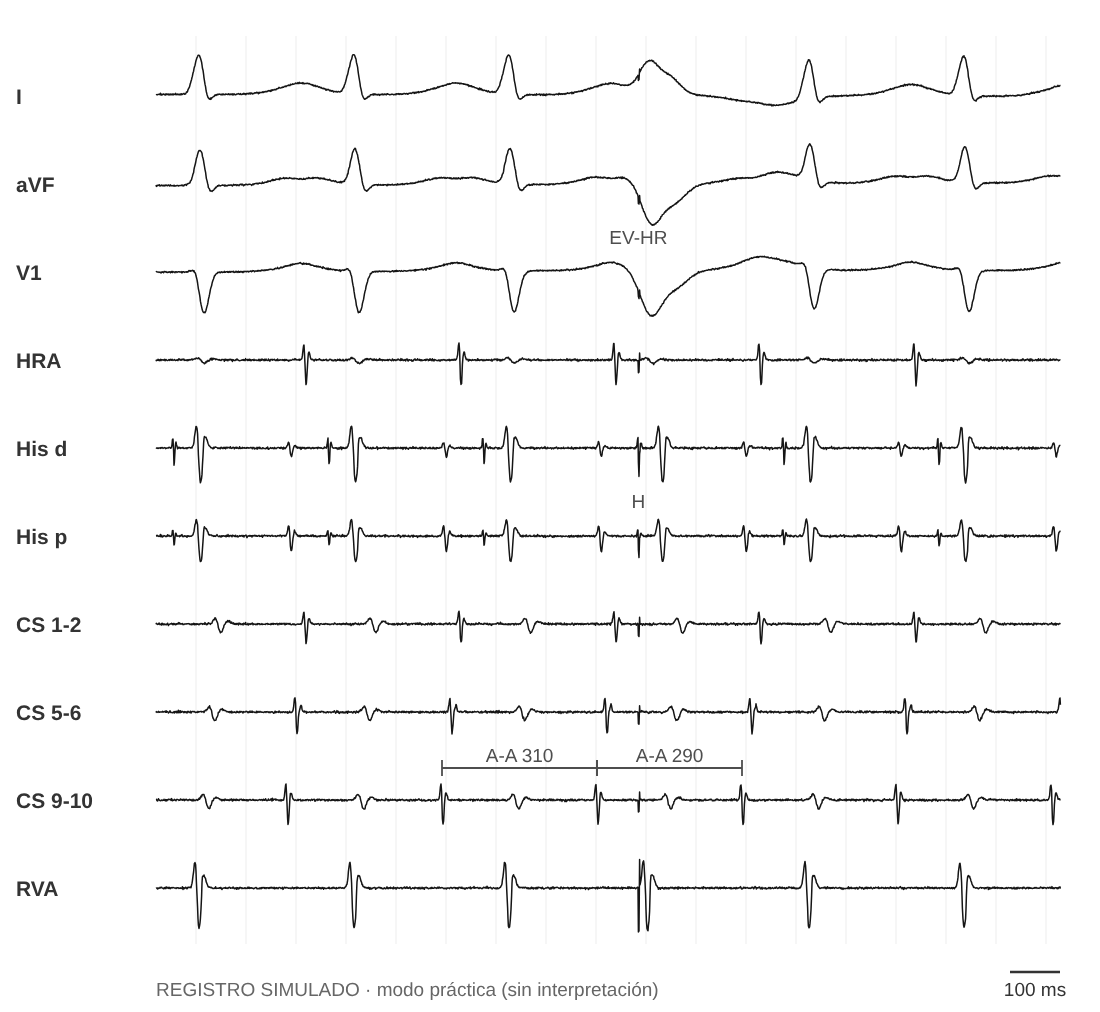
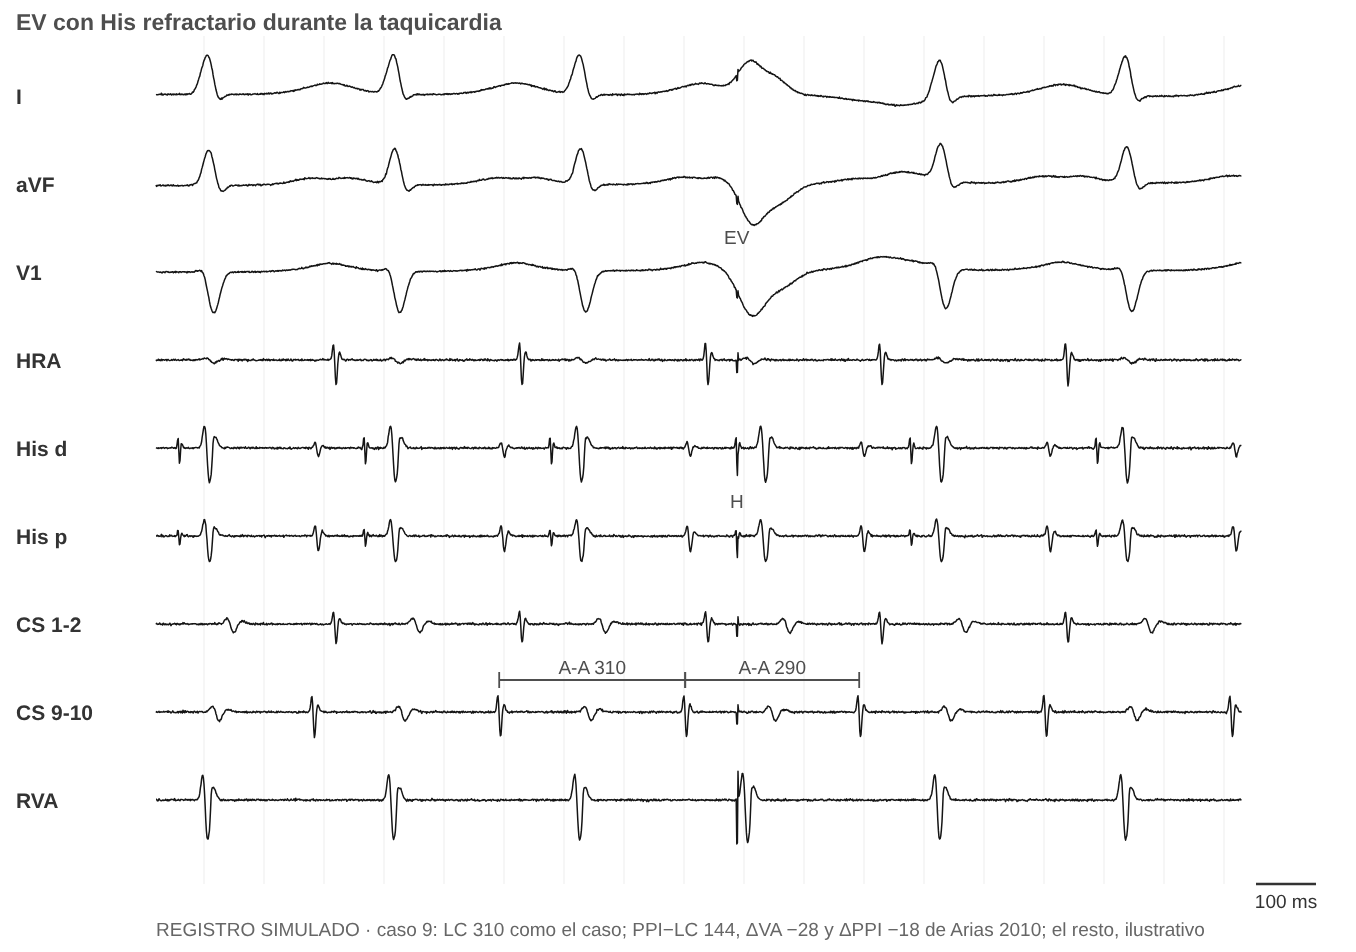
Caso 9 en el formato nuevo: todas las maniobras simuladas, valores durante el análisis y devolución paso a paso
Claude-Session: https://claude.ai/code/session_01Pw5rjt62KK5LeJZoEyFiaM

diff --git a/index.html b/index.html
@@ -313,7 +313,7 @@ dialog::backdrop{background:rgba(0,0,0,.45)}
 
 <div id="visor" hidden role="dialog" aria-label="Imagen ampliada"><div class="vbar"><button type="button" class="vm" aria-label="Achicar">−</button><button type="button" class="vp" aria-label="Agrandar">+</button><button type="button" class="vf">Ajustar</button><button type="button" class="vx">✕ Cerrar</button></div><div class="vbox"><img alt=""></div></div>
 <script>
-const APPV = 160;   // igual al número de CACHE_VERSION de sw.js
+const APPV = 161;   // igual al número de CACHE_VERSION de sw.js
 // ===============================================================================================================
 // Referencias. "propia" = artículo del material base; las demás se citan a través de esas revisiones.
 // ===============================================================================================================
@@ -1388,16 +1388,19 @@ const PCASOS = [
       pre: { v: 'Estimulación ventricular en sinusal a 500 y 400 ms.', r: 'SA 140 → 190 (decremental), concéntrica: conducción VA por el nodo, sin vía accesoria.', u: 'util', img: 'figs/sim/prac/p8_pre.png' } },
     dx: ['tvf'], ex: 'Taquicardia de QRS ancho con BRD y eje superior en un corazón sano. La disociación AV y el His después del inicio del QRS indican un origen ventricular, y los QRS angostos al estimular la aurícula excluyen la aberrancia. Es inducible y encarrilable (reentrada); el mapeo muestra P1 y P2 en el septum medio-inferior del VI y el verapamilo alarga la LC y el P1-P2 hasta cortar la taquicardia con un bloqueo entre P1 y P2: TV fascicular posterior.', refs: ['nogami10', 'liuq23', 'liu15'] },
   { id: 'c9', t: 'TRAV septal que imita una TRNAV atípica', p: 'Varón de 13 años con TSV de RP largo.',
-    ecg: 'figs/sim/casos/c9_ecg.jpg', ecgReal: true, basal: 'figs/sim/casos/c9_basal.png', ind: 'figs/sim/casos/c9_ind.png',
-    h: ['TSV de QRS angosto, LC 310 ms, relación 1:1', 'VA 180 ms, HA 222 ms', 'A más precoz en el SC proximal'],
-    m: { vop: { r: 'Respuesta A-V: TRNAV o TRAV (excluye la TA).', u: 'util', img: 'figs/sim/prac/p9_vop.png' },
-      medidas: { r: 'PPI−LC 144 ms; cPPI−LC 144; SA−VA (ΔVA) 100; ΔHA 40: los cuatro en rango de TRNAV. Ojo: una vía lenta y decremental se enlentece al estimular y alarga estos intervalos.', u: 'trampa', img: 'figs/sim/prac/p9_vop.png' },
-      ehr: { r: 'Una EV con His refractario adelanta la A siguiente: hay una vía accesoria.', u: 'clave', img: 'figs/sim/prac/p9_ehr.png' },
-      diff: { r: 'Base − ápex: ΔcPPI−LC −18 ms y ΔVA −28 ms. Desde la base el VA se acorta (en la TRNAV se alarga > 20 ms): la base está más cerca de la vía.', u: 'clave', img: 'figs/sim/prac/p9_diff.png' },
-      aop: { r: 'ΔAH 12 ms.', u: 'util' },
-      pre: { r: 'Sin doble vía. Conducción VA decremental, más precoz en el SC proximal.', u: 'util' },
-      parahis: { r: 'Respuesta nodal: la vía lenta conduce más despacio que el nodo y no se ve.', u: 'trampa' } },
-    dx: ['pjrt', 'trav_s'], ex: 'La respuesta A-V descarta la TA. Los cortes de PPI−LC, SA−VA y ΔHA se validaron sobre todo con vías rápidas: una vía septal lenta y decremental se enlentece al estimular, alarga esos intervalos y hace que la TRAV parezca una TRNAV atípica. Las maniobras que no dependen del decremento desempatan: la EV con His refractario que adelanta la A demuestra la vía, y el encarrilamiento diferencial (ΔVA y ΔcPPI−LC negativos) la ubica en el circuito. Es una TRAV por vía septal lenta y decremental (tipo PJRT); la ablación de la vía la eliminó. Mensaje: en una TSV de RP largo, antes de ablacionar una "TRNAV atípica", confirmar que una EV con His refractario no modifique la A.', refs: ['arias10', 'bennett11', 'segal09'] },
+    ecg: 'figs/sim/casos/c9_ecg.jpg', ecgReal: true, basal: 'figs/sim/casos/c9_basal.png', ind: 'figs/sim/casos/c9_ind.png', indt: 'Extraestímulo auricular S1-S2 600-300',
+    h: ['TSV de QRS angosto, LC 310 ms, relación AV 1:1', 'Protocolo: extraestímulo auricular desde la AD alta, S1-S2 600-300'],
+    hk: ['RP largo: VA 180 ms (HA 222) con la A más precoz en el SC proximal. El diferencial es TRNAV atípica, TRAV por una vía septal lenta (PJRT) y TA septal baja.', 'Inducción con extraestímulo auricular sin salto del AH (AH 140 con S2 300): no hay doble fisiología nodal evidente.'],
+    m: { ehr: { v: 'EV desde el ápex con el His refractario: la A siguiente se adelanta 20 ms (A-A 290) con la misma secuencia y la taquicardia sigue.', r: 'Con el His refractario la EV solo pudo llegar a la A por una vía, y la taquicardia sigue reseteada: hay una vía accesoria que participa en el circuito. Esta maniobra no depende del decremento.', u: 'clave', img: 'figs/sim/prac/p9_ehr.png' },
+      diff: { v: 'Encarrilando a 295 ms: desde el ápex SA 280 y PPI 454; desde la base del VD SA 252 y PPI 436 (VA 180). ΔVA (base − ápex) −28 ms; ΔPPI (base − ápex) −18 ms.', r: 'Desde la base el VA y el PPI se acortan (en la TRNAV se alargan más de 20 ms): la base está más cerca de la vía septal. Al comparar dos sitios, el decremento de la vía se cancela.', u: 'clave', img: 'figs/sim/prac/p9_diff.png' },
+      aop: { v: 'Estimulando la AD alta a 290 ms los V se aceleran a 290 (V-V 290; en la TSV, 310) con AH 100 (en la TSV, 88). Al cortar, el VA del primer latido es 180 ms, igual al de la TSV.', r: 'VA linking: excluye la TA. ΔAH (estimulando − TSV) 12 ms < 20: la aurícula forma parte del circuito; en contra de la TRNAV atípica.', u: 'clave', img: 'figs/sim/prac/p9_aop.png' },
+      vop: { v: 'Estimulando el ápex del VD a 295 ms las A se aceleran a 295 con la misma secuencia. Al cortar, el primer electrograma que sigue a la última A es un V (secuencia A-V).', r: 'Respuesta A-V: excluye la TA.', u: 'clave', img: 'figs/sim/prac/p9_vop.png' },
+      medidas: { v: 'PPI 454 ms con LC 310 (PPI−LC 144). SA 280 ms con VA 180 (SA−VA 100). HA 222 en la TSV y 262 estimulando (ΔHA +40).', r: 'Engañosa: los tres valores caen en rango de TRNAV. La vía septal es lenta y decremental: al estimular más rápido conduce más despacio y alarga el SA, el PPI y el HA. Los cortes se validaron sobre todo con vías rápidas.', u: 'trampa', img: 'figs/sim/prac/p9_medidas.png' },
+      parahis: { v: 'En sinusal, con captura del His: SA 120 y QRS 95. Solo V: SA 170 y QRS 150. Misma secuencia auricular.', r: 'Engañosa: respuesta nodal porque la vía decremental conduce más lento que el nodo y no se ve.', u: 'trampa', img: 'figs/sim/prac/p9_parahis.png' },
+      ado: { v: 'La taquicardia termina: el último latido es un V que no conduce a la A.', r: 'Engañosa: la terminación con un V sugiere bloqueo en la vía lenta retrógrada (TRNAV atípica), pero las vías decrementales también son sensibles a la adenosina.', u: 'trampa', img: 'figs/sim/prac/p9_ado.png' },
+      pre: { v: 'Estimulación ventricular en sinusal a 500 y 400 ms.', r: 'SA 150 a 500 y 190 a 400 (decremental), con la A más precoz en el SC proximal: compatible con el nodo o con una vía decremental.', u: 'util', img: 'figs/sim/prac/p9_pre.png' },
+      eha: { v: 'EA desde el ostium del SC con el His refractario: el His siguiente sale a su tiempo (H-H 310).', r: 'No modifica el His: esperable en la TRAV (el EA no puede bajar por el nodo refractario).', u: 'util', img: 'figs/sim/prac/p9_eha.png' } },
+    dx: ['pjrt', 'trav_s'], ex: 'La respuesta A-V y el VA linking descartan la TA, y el ΔAH de 12 ms ubica la aurícula en el circuito. Los cortes de PPI−LC, SA−VA y ΔHA se validaron sobre todo con vías rápidas: una vía septal lenta y decremental se enlentece al estimular, alarga esos intervalos y hace que la TRAV parezca una TRNAV atípica. Las maniobras que no dependen del decremento desempatan: la EV con His refractario que adelanta la A demuestra la vía, y el encarrilamiento diferencial (ΔVA −28, ΔPPI −18) la ubica en el circuito. Es una TRAV por vía septal lenta y decremental (tipo PJRT). Mensaje: en una TSV de RP largo, antes de ablacionar una "TRNAV atípica", confirmar que una EV con His refractario no modifique la A.', refs: ['arias10', 'bennett11', 'segal09'] },
   { id: 'c10', t: 'TSV con bloqueo VA tipo Wenckebach', p: 'Varón de 40 años con TSV. Se induce una sola taquicardia.',
     ecg: 'figs/sim/casos/c10_ecg.png', basal: 'figs/sim/casos/c10_basal.png', ind: 'figs/sim/casos/c10_ind.png',
     h: ['TSV de QRS angosto, LC 390 ms', 'Bloqueo VA tipo Wenckebach con taquicardia que sigue (más V que A)', 'El HH se mantiene estable a pesar del bloqueo VA'],

diff --git a/sw.js b/sw.js
@@ -1,6 +1,6 @@
 // Permite instalar la app y abrirla sin conexión. Primero la red (siempre lo último publicado); si no hay, la copia.
 // Si cambiás un archivo, subí CACHE_VERSION.
-const CACHE_VERSION = 'mef-v160';
+const CACHE_VERSION = 'mef-v161';
 const ARCHIVOS = ['./', './index.html', './manifest.json', './iconos/icon-192.png', './iconos/icon-512.png'];
 self.addEventListener('install', e => e.waitUntil(caches.open(CACHE_VERSION).then(c => c.addAll(ARCHIVOS)).then(() => self.skipWaiting())));
 self.addEventListener('activate', e => e.waitUntil(caches.keys().then(ks => Promise.all(ks.filter(k => k !== CACHE_VERSION).map(k => caches.delete(k)))).then(() => self.clients.claim())));

diff --git a/herramientas/simulador/cases6.py b/herramientas/simulador/cases6.py
@@ -946,6 +946,117 @@ def verap8(title, lcs, p1p2s, end):
 S['p8_verapamilo_a'] = verap8('A. Antes del verapamilo', [0, 420, 420, 420, 420, 420], [110] * 6, False)
 S['p8_verapamilo_b'] = verap8('B. Verapamilo IV', [0, 440, 460, 480, 500], [120, 130, 145, 160, 175], True)
 
+# =====================================================================================================
+# Caso 9 (TRAV por vía septal lenta y decremental que imita una TRNAV atípica; LC 310 como el ECG real, VA 180, HV 42, AH 88).
+# Arias 2010: desde el ápex PPI−LC 144; base − ápex: ΔVA −28 y ΔcPPI−LC −18. SA−VA 100 y ΔHA +40, ilustrativos.
+SRC9 = 'caso 9: LC 310 como el caso; PPI−LC 144, ΔVA −28 y ΔPPI −18 de Arias 2010; el resto, ilustrativo'
+LC9, VA9, HV9, AH9, SC9, SA9, PPI9, HAp9 = 310, 180, 42, 88, 295, 280, 454, 262
+
+
+def vop9(title, med):
+    svt = [i * LC9 for i in range(3)]
+    sp = [svt[-1] + 230 + SC9 * k for k in range(6)]
+    A = [v + VA9 for v in svt] + [s + SA9 for s in sp]
+    ret = sp[-1] + PPI9
+    after = [ret, ret + LC9]
+    cal = [(svt[0], svt[1], 'RVA', f'LC {LC9}'), (svt[1], svt[1] + VA9 + 2, 'CS 9-10', f'VA {VA9}'), (sp[-2], sp[-1], 'RVA', f'S-S {SC9}'),
+           (A[-3] + 2, A[-2] + 2, 'HRA', f'A-A {SC9}'), (sp[-1], A[-1] + 2, 'CS 9-10', f'SA {SA9}'), (sp[-1], ret + 2, 'RVA', f'PPI {PPI9}')]
+    marks = []
+    if med:
+        cal = [c for c in cal if not c[3].startswith(('S-S', 'A-A'))]
+        cal += [(svt[1] - HV9, svt[1] + VA9, 'His p', f'HA {HV9 + VA9}'), (A[-1] - HAp9, A[-1], 'His p', f'HA {HAp9}')]
+        marks = [(sp[-1] + 160, 'I', f'SA − VA = {SA9} − {VA9} = {SA9 - VA9} ms'), (sp[-1] + 160, 'aVF', f'PPI − LC = {PPI9} − {LC9} = {PPI9 - LC9} ms'),
+                 (sp[-1] + 160, 'V1', f'ΔHA = {HAp9} − {HV9 + VA9} = +{HAp9 - HV9 - VA9} ms')]
+    return dict(win=(-80, after[-1] + 220), pxms=0.24, title=title, channels=CH6, src=SRC9,
+        beats=[(v, 'n') for v in svt + after] + [(s, 'pa') for s in sp], spikes=sp,
+        atr=[(a, 'conc_cs', -1) for a in A + [v + VA9 for v in after]],
+        h_ante=[v - HV9 for v in svt + after], h_retro=[s + SA9 - HAp9 for s in sp], cal=cal, marks=marks)
+
+
+S['p9_vop'] = vop9('Sobreestimulación ventricular desde el ápex del VD a 295 ms', False)
+S['p9_medidas'] = vop9('Medidas sobre la sobreestimulación ventricular (ápex del VD a 295 ms): PPI, SA y HA', True)
+
+
+def diff9(sa, ppi, typ, title):
+    svt = [0, LC9]
+    sp = [560 + SC9 * k for k in range(6)]
+    A = [v + VA9 for v in svt] + [s + sa for s in sp]
+    ret = sp[-1] + ppi
+    return dict(win=(-80, ret + LC9 + 220), pxms=0.24, channels=CH6, title=title, spikes=sp, pace_ch='RVA', src=SRC9,
+        beats=[(v, 'n') for v in svt] + [(s, typ) for s in sp] + [(ret, 'n'), (ret + LC9, 'n')],
+        atr=[(a, 'conc_cs', -1) for a in A] + [(ret + VA9, 'conc_cs', -1), (ret + LC9 + VA9, 'conc_cs', -1)],
+        h_ante=[v - HV9 for v in svt] + [ret - HV9, ret + LC9 - HV9], h_retro=[s + sa - HAp9 for s in sp],
+        cal=[(svt[1], svt[1] + VA9 + 2, 'CS 9-10', f'VA {VA9}'), (sp[-1], A[-1] + 2, 'CS 9-10', f'SA {sa}'), (svt[0], svt[1], 'RVA', f'LC {LC9}'),
+             (sp[-1], ret + 2, 'RVA', f'PPI {ppi}')])
+
+
+S['p9_diff_a'] = diff9(280, 454, 'pa', 'A. Encarrilamiento desde el ápex del VD (295 ms)')
+S['p9_diff_b'] = diff9(252, 436, 'pb', 'B. Encarrilamiento desde la base del VD (295 ms)')
+
+# EV con His refractario: adelanta la A siguiente 20 ms, misma secuencia, la taquicardia sigue.
+k = 3
+vs = [i * LC9 for i in range(k)]
+h_exp = k * LC9 - HV9
+A = [v + VA9 for v in vs] + [k * LC9 + VA9 - 20]
+nxt = A[-1] + (LC9 - VA9)
+after = [nxt, nxt + LC9]
+A += [v + VA9 for v in after]
+S['p9_ehr'] = dict(win=(-80, after[-1] + 200), pxms=0.30, title='EV con His refractario durante la taquicardia', channels=CH6, src=SRC9,
+    spikes=[h_exp], pace_ch='RVA', beats=[(v, 'n') for v in vs] + [(h_exp, 'pa')] + [(v, 'n') for v in after],
+    atr=[(a, 'conc_cs', -1) for a in A], h_ante=[v - HV9 for v in vs] + [h_exp] + [v - HV9 for v in after],
+    cal=[(A[k - 2] + 2, A[k - 1] + 2, 'CS 9-10', f'A-A {LC9}'), (A[k - 1] + 2, A[k] + 2, 'CS 9-10', f'A-A {LC9 - 20}')],
+    marks=[(h_exp, 'V1', 'EV'), (h_exp, 'His p', 'H')])
+
+# Estudio basal: estimulación del VD a 500 y 400: SA 150 y 190 (decremental), A más precoz en el SC proximal.
+sp = [0, 500, 1000, 1400, 1800]
+sas = [150, 150, 150, 190, 190]
+S['p9_pre'] = dict(win=(-80, 2150), pxms=0.30, title='Estimulación ventricular en ritmo sinusal: 500 y 400 ms', channels=CH6, src=SRC9,
+    spikes=sp, beats=[(s, 'pa') for s in sp], atr=[(s + a, 'conc_cs', -1) for s, a in zip(sp, sas)],
+    cal=[(sp[0], sp[1], 'RVA', 'S-S 500'), (sp[1], sp[1] + 152, 'CS 9-10', 'SA 150'), (sp[2], sp[3], 'RVA', 'S-S 400'), (sp[3], sp[3] + 192, 'CS 9-10', 'SA 190')])
+
+# Para-Hisiana en sinusal: SA 120 → 170, misma secuencia.
+sp = [0, 650, 1300, 1950]
+cap = [True, False, True, False]
+S['p9_parahis'] = dict(win=(-80, 2300), pxms=0.32, title='Estimulación para-Hisiana en ritmo sinusal', channels=CH6, src=SRC9,
+    spikes=sp, pace_ch='His p', beats=[(s + HV9 if c else s, 'n' if c else 'pa') for s, c in zip(sp, cap)],
+    atr=[(s + (120 if c else 170), 'conc_cs', -1) for s, c in zip(sp, cap)],
+    cal=[(sp[0], sp[0] + 122, 'CS 9-10', 'SA 120'), (sp[1], sp[1] + 172, 'CS 9-10', 'SA 170'), (sp[2] + HV9, sp[2] + HV9 + 95, 'RVA', 'QRS 95'), (sp[3], sp[3] + 150, 'RVA', 'QRS 150')],
+    marks=[(sp[0] + 30, 'V1', 'His + V'), (sp[1] + 40, 'V1', 'solo V')])
+
+# Sobreestimulación auricular desde la AD alta a 290: AH 100 (TSV 88, ΔAH 12); al cortar, VA 180 como en la TSV.
+AHs9 = AH9 + 12
+vs = [0, LC9, 2 * LC9]
+A = [v + VA9 for v in vs]
+sp = [A[-1] + 200 + 290 * k for k in range(6)]
+pv = [s + 28 + AHs9 + HV9 for s in sp]
+vs2 = [pv[-1] + LC9, pv[-1] + 2 * LC9]
+S['p9_aop'] = dict(win=(-80, vs2[-1] + 220), pxms=0.24, title='Sobreestimulación auricular desde la AD alta a 290 ms', channels=CH6, src=SRC9,
+    beats=[(v, 'n') for v in vs + pv + vs2], aspikes=sp, apace_ch='HRA',
+    atr=[(a, 'conc_cs', -1) for a in A] + [(s + 5, 'sinus', 1) for s in sp] + [(v + VA9, 'conc_cs', -1) for v in [pv[-1]] + vs2],
+    h_ante=[v - HV9 for v in vs + pv + vs2],
+    cal=[(vs[0], vs[1], 'RVA', f'V-V {LC9}'), (vs[0], A[0] + 2, 'CS 9-10', f'VA {VA9}'), (A[1] + 2, vs[2] - HV9, 'His d', f'AH {AH9}'),
+         (sp[-2], sp[-1], 'HRA', 'S-S 290'), (pv[-2], pv[-1], 'RVA', 'V-V 290'), (sp[-1] + 28, pv[-1] - HV9, 'His d', f'AH {AHs9}'),
+         (pv[-1], pv[-1] + VA9 + 2, 'CS 9-10', f'VA {VA9}')])
+
+# Adenosina: termina con un V (bloqueo en la vía).
+vs = [0, LC9, 2 * LC9, 3 * LC9]
+A = [v + VA9 for v in vs[:3]]
+S['p9_ado'] = dict(win=(-80, vs[-1] + 700), pxms=0.25, title='Adenosina IV durante la taquicardia', channels=CH6, src=SRC9,
+    beats=[(v, 'n') for v in vs], atr=[(a, 'conc_cs', -1) for a in A], h_ante=[v - HV9 for v in vs],
+    cal=[(vs[0], vs[1], 'RVA', f'LC {LC9}'), (vs[1], A[1] + 2, 'CS 9-10', f'VA {VA9}')],
+    marks=[(vs[3] + 120, 'aVF', 'último: V sin A')])
+
+# EA con His refractario desde el ostium del SC: el His siguiente sale a su tiempo.
+hs = [i * LC9 - HV9 for i in range(6)]
+apb = hs[3] + 10
+vs = [h + HV9 for h in hs]
+A = [v + VA9 for k2, v in enumerate(vs) if k2 != 3]
+S['p9_eha'] = dict(win=(-100, vs[-1] + 250), pxms=0.27, title='EA con His refractario desde el ostium del SC', channels=CH6, src=SRC9,
+    beats=[(x, 'n') for x in vs], aspikes=[apb], apace_ch='CS 9-10',
+    atr=[(a, 'conc_cs', -1) for a in A] + [(apb + 4, 'conc_cs', 1)], h_ante=hs,
+    cal=[(hs[2], hs[3], 'His d', f'H-H {LC9}'), (hs[3], hs[4], 'His d', f'H-H {LC9}')],
+    marks=[(apb, 'V1', 'EA')])
+
 if __name__ == '__main__':
     for k in (sys.argv[3:] or S):
         render(S[k], f'{OUT}/{k}.svg')

diff --git a/herramientas/simulador/practica.py b/herramientas/simulador/practica.py
@@ -13,11 +13,11 @@ S = {**cases.S, **cases2.S, **cases3.S, **cases4.S}
 
 USADAS = ['arias10', 'burri12', 'ho15', 'knight99', 'michaud01', 'p10_ehr', 'p10_vop', 'p11_adec', 'p11_anillo', 'p11_eapre',
           'p12_eapre', 'p12_pre', 'p13_abll', 'p2_ehr', 'p3_ado', 'p3_vop', 'p4old_ehr_a', 'p4old_ehr_b', 'p4old_pre', 'p5old_ehr', 'p6old_aop',
-          'p6old_ehr', 'p8_verap_a', 'p8_verap_b', 'p9_diff_a', 'p9_diff_b', 'p9_ehr', 'tvf_post', 'veen11_fusion', 'veen11_pseudo', 'veen12_jt_a', 'veen12_jt_b']
+          'p6old_ehr', 'p8_verap_a', 'p8_verap_b', 'p9old_diff_a', 'p9old_diff_b', 'p9old_ehr', 'tvf_post', 'veen11_fusion', 'veen11_pseudo', 'veen12_jt_a', 'veen12_jt_b']
 
 TITULOS = {'veen12_jt_a': 'A. EA con His refractario (ostium del SC)', 'veen12_jt_b': 'B. EA precoz (AD alta)','veen11_pseudo': 'Encarrilamiento desde el ápex del VD','p4old_ehr_a': 'A. EV-HR desde el ápex del VD', 'p4old_ehr_b': 'B. EV-HR desde el VI basal (rama del SC)',
            'p8_verap_a': 'A. Antes del verapamilo', 'p8_verap_b': 'B. Con verapamilo',
-           'p9_diff_a': 'A. Desde el ápex del VD', 'p9_diff_b': 'B. Desde la base del VD'}
+           'p9old_diff_a': 'A. Desde el ápex del VD', 'p9old_diff_b': 'B. Desde la base del VD'}
 
 RENOMBRAR = {'LC TSV 430': 'LC 430', 'VA': 'VA 120', 'SA': 'SA 160', 'PPI': 'PPI 550', 'PPI−LC 105': 'PPI 495',
              'A adelantada': 'A-A 460', 'potencial M': 'potencial'}
@@ -25,7 +25,7 @@ RENOMBRAR = {'LC TSV 430': 'LC 430', 'VA': 'VA 120', 'SA': 'SA 160', 'PPI': 'PPI
 # Calibres agregados: la LC (o el A-A) de la TSV, para que se pueda calcular
 EXTRA = {'p10_vop': [(0, 390, 'RVA', 'LC 390')], 'p10_ehr': [(0, 390, 'RVA', 'LC 390')],
          'p11_eapre': [], 'p12_eapre': []}
-EHR = ['p2_ehr', 'p4old_ehr_a', 'p4old_ehr_b', 'p5old_ehr', 'p6old_ehr', 'p9_ehr']   # se agrega el A-A de la TSV
+EHR = ['p2_ehr', 'p4old_ehr_a', 'p4old_ehr_b', 'p5old_ehr', 'p6old_ehr', 'p9old_ehr']   # se agrega el A-A de la TSV
 
 
 def limpiar(k, sc):

diff --git a/herramientas/simulador/cases4.py b/herramientas/simulador/cases4.py
@@ -38,8 +38,8 @@ S['p5old_ehr'] = ehr(460, 300, 'conc_cs', 0, early=25, src='caso 5 (LC 460 como 
 # Caso 6: PJRT, LC 521, VA 290; EV-HR retrasa la A 20 ms.
 S['p6old_ehr'] = ehr(300, 190, 'conc_cs', -20, src='caso 6 (LC 300 como el ECG real, VA 190); EV-HR que retrasa la A 20 ms', lab='A-A 320 (+20)')
 # Caso 9: PJRT (Arias 2010), LC 480, VA 296; EV-HR adelanta la A (magnitud ilustrativa).
-S['p9_ehr'] = ehr(310, 180, 'conc_cs', 20, src='caso 9 (LC 310 como el ECG real, VA 180); EV-HR que adelanta la A 20 ms', lab='A-A 290 (−20)')
-S['p9_ehr']['pxms'] = 0.25
+S['p9old_ehr'] = ehr(310, 180, 'conc_cs', 20, src='caso 9 (LC 310 como el ECG real, VA 180); EV-HR que adelanta la A 20 ms', lab='A-A 290 (−20)')
+S['p9old_ehr']['pxms'] = 0.25
 # Caso 4: TRAV lateral izquierda, LC 340, VA 115; desde el ápex no cambia la A, desde el VI basal la adelanta 20 ms.
 S['p4old_ehr_a'] = ehr(340, 115, 'left', 0, title='A. EV-HR desde el ápex del VD: la A no cambia', src='caso 4 (Veenhuyzen 2011: LC 340, VA 115); adelanto de 20 ms del caso',
                     lab='A-A 340')
@@ -91,8 +91,8 @@ def diff(sa, typ, pace, title):
         h_ante=[v - HV for v in svt] + [ret - HV, ret + LC - HV],
         cal=[(svt[1], svt[1] + VA + 2, 'CS 9-10', f'VA {VA}'), (sp[-1], A[-1] + 2, 'CS 9-10', f'SA {sa}'),
              (A[-2] + 38, A[-1] + 38, 'HRA', 'A-A 295'), (svt[0], svt[1], 'RVA', f'LC {LC}')])
-S['p9_diff_a'] = diff(280, 'pa', 'RVA', 'A. Desde el ápex del VD: SA − VA 100')
-S['p9_diff_b'] = diff(252, 'lv', 'RVA', 'B. Desde la base: SA − VA 72 → ΔVA (base − ápex) −28: TRAV')
+S['p9old_diff_a'] = diff(280, 'pa', 'RVA', 'A. Desde el ápex del VD: SA − VA 100')
+S['p9old_diff_b'] = diff(252, 'lv', 'RVA', 'B. Desde la base: SA − VA 72 → ΔVA (base − ápex) −28: TRAV')
 
 # Caso 10: vía nodoventricular. LC 390; EV-HR adelanta el His siguiente.
 LC = 390

diff --git a/herramientas/simulador/cases5.py b/herramientas/simulador/cases5.py
@@ -361,7 +361,7 @@ sp = [svt[-1] + 295 * (k + 1) for k in range(6)]
 A = [v + VA9 for v in svt] + [s + 280 for s in sp]
 ret = sp[-1] + 454
 after = [ret, ret + LC9]
-S['p9_vop'] = dict(win=(-100, after[-1] + 300), pxms=0.24, title='Encarrilamiento desde el ápex del VD a 295 ms', channels=CH6,
+S['p9old_vop'] = dict(win=(-100, after[-1] + 300), pxms=0.24, title='Encarrilamiento desde el ápex del VD a 295 ms', channels=CH6,
     src='caso 9: valores ilustrativos (PPI−LC de Arias 2010)',
     beats=[(v, 'n') for v in svt + after] + [(x, 'pa') for x in sp], spikes=sp,
     atr=[(a, 'conc_cs', -1) for a in A + [v + VA9 for v in after]],
